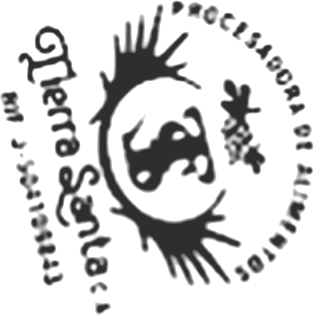
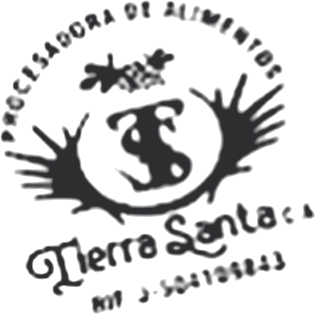
Estado de cuenta de proveedores con nuevo estilo y sello derecho
- Movimientos del período: tipo (entrega/abono) con icono y color,
  rubro, kg, cestas, precio por cesta/kg/und, merma, monto con signo y
  saldo acumulado resaltado; totales del periodo.
- En entregas importadas se muestra el precio por cesta original.
- El sello de la factura se gira para que se lea derecho.

Claude-Session: https://claude.ai/code/session_01TpQcdKiYUmVfcUq88urfjf

diff --git a/src/app/(app)/proveedores/[id]/estado-cuenta/page.tsx b/src/app/(app)/proveedores/[id]/estado-cuenta/page.tsx
@@ -2,7 +2,7 @@ import type { Metadata } from "next";
 import Image from "next/image";
 import Link from "next/link";
 import { notFound } from "next/navigation";
-import { ArrowLeft, FileSpreadsheet } from "lucide-react";
+import { ArrowLeft, ClipboardList, FileSpreadsheet } from "lucide-react";
 import { exigirPerfil } from "@/lib/auth/sesion";
 import { crearClienteServidor } from "@/lib/supabase/server";
 import { formatearCantidad, formatearMonto } from "@/lib/dinero";
@@ -21,7 +21,7 @@ export default async function PaginaEstadoCuenta({ params, searchParams }: PageP
   const sp = await searchParams;
   const datos = await obtenerEstadoCuenta(id, t(sp.moneda) || null, t(sp.desde), t(sp.hasta));
   if (!datos) notFound();
-  const { proveedor, empresa, moneda, desde, hasta, filas, totales } = datos;
+  const { proveedor, empresa, moneda, desde, hasta, filas, detalles, totales } = datos;
   const supabase = await crearClienteServidor();
   const { data: monedas } = await supabase.from("monedas").select("codigo").eq("activa", true).order("orden");
   const logo = empresa?.logo_path ? urlLogo(empresa.logo_path) : LOGO_POR_DEFECTO_NEGRO;
@@ -69,38 +69,74 @@ export default async function PaginaEstadoCuenta({ params, searchParams }: PageP
           {proveedor.ubicacion && <p><span className="text-neutral-500">Ubicación:</span> {proveedor.ubicacion}</p>}
         </section>
 
+        <h2 className="mt-5 flex items-center gap-2 border-b-2 border-amber-500 pb-1.5 text-sm font-extrabold uppercase tracking-wide">
+          <ClipboardList className="size-4 text-amber-600" aria-hidden /> Movimientos del período
+        </h2>
         <div className="overflow-x-auto">
-          <table className="mt-3 w-full border-collapse">
+          <table className="w-full min-w-[46rem] border-collapse text-[12.5px]">
             <thead>
-              <tr className="border-b-2 border-neutral-800 text-left text-[11px] uppercase tracking-wide text-neutral-600">
-                <th className="py-1.5 pr-2">Fecha</th><th className="py-1.5 pr-2">Detalle</th>
-                <th className="py-1.5 pr-2 text-right">Kg</th><th className="py-1.5 pr-2 text-right">Merma</th>
-                <th className="py-1.5 pr-2 text-right">Entregas</th><th className="py-1.5 pr-2 text-right">Abonos</th><th className="py-1.5 text-right">Saldo</th>
+              <tr className="border-b border-neutral-200 text-left text-[11px] font-bold uppercase tracking-wide text-neutral-800">
+                <th className="py-2 pr-2">Fecha</th><th className="py-2 pr-2">Tipo</th><th className="py-2 pr-2">Rubro</th>
+                <th className="py-2 pr-2 text-right">Kg</th><th className="py-2 pr-2 text-right">Cestas</th><th className="py-2 pr-2 text-right">Precio</th>
+                <th className="py-2 pr-2 text-center">Merma</th><th className="py-2 pr-2 text-right">Monto</th><th className="py-2 text-right">Saldo acumulado</th>
               </tr>
             </thead>
             <tbody>
               {filas.length === 0 && (
-                <tr><td colSpan={7} className="py-6 text-center text-neutral-500">Sin movimientos en este periodo.</td></tr>
+                <tr><td colSpan={9} className="py-6 text-center text-neutral-500">Sin movimientos en este periodo.</td></tr>
               )}
-              {filas.map((f, i) => (
-                <tr key={`${f.tipo}-${f.ref_id ?? i}`} className={f.tipo === "saldo_anterior" ? "bg-neutral-100 font-medium" : i % 2 ? "bg-neutral-50" : ""}>
-                  <td className="whitespace-nowrap py-1 pr-2">{formatearFecha(f.fecha)}</td>
-                  <td className="py-1 pr-2">{f.detalle}</td>
-                  <td className="tabular py-1 pr-2 text-right">{f.kg ? formatearCantidad(f.kg) : ""}</td>
-                  <td className="tabular py-1 pr-2 text-right">{f.merma ? formatearCantidad(f.merma) : ""}</td>
-                  <td className="tabular whitespace-nowrap py-1 pr-2 text-right">{Number(f.cargo) ? formatearMonto(f.cargo, moneda, { sinCodigo: true }) : ""}</td>
-                  <td className="tabular whitespace-nowrap py-1 pr-2 text-right">{Number(f.abono) ? formatearMonto(f.abono, moneda, { sinCodigo: true }) : ""}</td>
-                  <td className="tabular whitespace-nowrap py-1 text-right font-medium">{formatearMonto(f.saldo, moneda, { sinCodigo: true })}</td>
-                </tr>
-              ))}
+              {filas.map((f, i) => {
+                const clave = `${f.tipo}-${f.ref_id ?? i}`;
+                const saldo = <td className="tabular whitespace-nowrap py-2 text-right font-bold text-amber-600">{formatearMonto(f.saldo, moneda)}</td>;
+                if (f.tipo === "saldo_anterior") {
+                  return (
+                    <tr key={clave} className="border-b border-neutral-100 bg-neutral-50">
+                      <td className="whitespace-nowrap py-2 pr-2">{formatearFecha(f.fecha)}</td>
+                      <td colSpan={7} className="py-2 pr-2 font-semibold text-neutral-700">Saldo anterior</td>{saldo}
+                    </tr>
+                  );
+                }
+                if (f.tipo === "abono") {
+                  const extra = f.detalle.replace(/^Abono( · )?/, "");
+                  return (
+                    <tr key={clave} className="border-b border-neutral-100">
+                      <td className="whitespace-nowrap py-2 pr-2">{formatearFecha(f.fecha)}</td>
+                      <td className="whitespace-nowrap py-2 pr-2 font-semibold text-green-700"><span aria-hidden>💵</span> Abono</td>
+                      <td colSpan={5} className="py-2 pr-2 italic text-neutral-600">Pago recibido{extra ? ` · ${extra}` : ""}</td>
+                      <td className="tabular whitespace-nowrap py-2 pr-2 text-right font-bold text-green-700">−{formatearMonto(f.abono, moneda)}</td>{saldo}
+                    </tr>
+                  );
+                }
+                const d = f.ref_id ? detalles.get(f.ref_id) : undefined;
+                return (
+                  <tr key={clave} className="border-b border-neutral-100">
+                    <td className="whitespace-nowrap py-2 pr-2">{formatearFecha(f.fecha)}</td>
+                    <td className="whitespace-nowrap py-2 pr-2 font-semibold text-red-600"><span aria-hidden>🚚</span> Entrega</td>
+                    <td className="py-2 pr-2 uppercase">{d?.rubro ?? f.detalle}</td>
+                    <td className="tabular whitespace-nowrap py-2 pr-2 text-right">
+                      {d?.modo === "UNIDAD" ? `${formatearCantidad(d.unidades)} und` : f.kg ? `${formatearCantidad(f.kg, 1)} kg` : "—"}
+                    </td>
+                    <td className="tabular py-2 pr-2 text-right">{Number(f.cestas) ? formatearCantidad(f.cestas, 2) : "—"}</td>
+                    <td className="tabular whitespace-nowrap py-2 pr-2 text-right">
+                      {d ? <>{formatearMonto(d.precio, moneda)}<span className="text-[10px] text-neutral-500">/{d.por}</span></> : "—"}
+                    </td>
+                    <td className="tabular whitespace-nowrap py-2 pr-2 text-center text-amber-600">{Number(f.merma) ? `${formatearCantidad(f.merma)} kg` : "—"}</td>
+                    <td className="tabular whitespace-nowrap py-2 pr-2 text-right font-bold text-red-600">+{formatearMonto(f.cargo, moneda)}</td>{saldo}
+                  </tr>
+                );
+              })}
             </tbody>
             <tfoot>
               <tr className="border-t-2 border-neutral-800 font-semibold">
-                <td colSpan={2} className="py-1.5">Totales del periodo</td>
-                <td className="tabular py-1.5 pr-2 text-right">{formatearCantidad(totales.kg)}</td>
-                <td className="tabular py-1.5 pr-2 text-right">{formatearCantidad(totales.merma)}</td>
-                <td className="tabular whitespace-nowrap py-1.5 pr-2 text-right">{formatearMonto(totales.cargos, moneda, { sinCodigo: true })}</td>
-                <td className="tabular whitespace-nowrap py-1.5 pr-2 text-right">{formatearMonto(totales.abonos, moneda, { sinCodigo: true })}</td>
+                <td colSpan={3} className="py-2">Totales del periodo</td>
+                <td className="tabular whitespace-nowrap py-2 pr-2 text-right">{formatearCantidad(totales.kg, 1)} kg</td>
+                <td className="tabular py-2 pr-2 text-right">{formatearCantidad(totales.cestas, 2)}</td>
+                <td />
+                <td className="tabular whitespace-nowrap py-2 pr-2 text-center">{totales.merma ? `${formatearCantidad(totales.merma)} kg` : "—"}</td>
+                <td className="tabular whitespace-nowrap py-2 pr-2 text-right">
+                  <span className="block text-red-600">+{formatearMonto(totales.cargos, moneda)}</span>
+                  <span className="block text-green-700">−{formatearMonto(totales.abonos, moneda)}</span>
+                </td>
                 <td />
               </tr>
             </tfoot>

diff --git a/src/features/proveedores/estado-cuenta.ts b/src/features/proveedores/estado-cuenta.ts
@@ -1,12 +1,26 @@
 import "server-only";
 import { crearClienteServidor } from "@/lib/supabase/server";
+import { parsearMonto } from "@/lib/dinero";
 
 export type FilaEstadoCuenta = {
   fecha: string | null; tipo: string; ref_id: number | null; detalle: string;
   cestas: number | null; kg: number | null; merma: number | null; cargo: number | null; abono: number | null; saldo: number;
 };
 
+/** Datos de cada entrega para la tabla: rubro, cantidad y precio según cómo se compró. */
+export type DetalleEntrega = {
+  rubro: string; emoji: string | null; modo: string; unidades: number;
+  /** Precio unitario y a qué se refiere ("cesta", "kg" o "und"). */
+  precio: number; por: "cesta" | "kg" | "und";
+};
+
 const valida = (v: string | null | undefined) => (v && /^\d{4}-\d{2}-\d{2}$/.test(v) ? v : null);
+
+/** Precio por cesta original de una entrega importada (la nota dice "2,18 cestas de 15 kg × 45.000"). */
+function precioCestaImportada(nota: string | null) {
+  const m = nota?.match(/cestas de [\d.,]+ kg × ([\d.,]+)/);
+  return m ? parsearMonto(m[1])?.toNumber() ?? null : null;
+}
 
 /** Datos del estado de cuenta (cálculo en Postgres: estado_cuenta_proveedor). */
 export async function obtenerEstadoCuenta(proveedorId: number, moneda: string | null, desde?: string | null, hasta?: string | null) {
@@ -22,14 +36,31 @@ export async function obtenerEstadoCuenta(proveedorId: number, moneda: string | 
   });
   if (error) throw new Error(error.message);
   const lista = (filas ?? []) as FilaEstadoCuenta[];
+  const ids = lista.filter((f) => f.tipo === "entrega" && f.ref_id).map((f) => f.ref_id!);
+  const { data: entregas } = ids.length
+    ? await supabase.from("entregas_proveedor")
+        .select("id, modo_pesaje, precio, precio_kg, cestas, unidades, kg_por_cesta, nota, productos(nombre, emoji)").in("id", ids)
+    : { data: [] };
+  const detalles = new Map<number, DetalleEntrega>();
+  for (const e of entregas ?? []) {
+    const cestas = Number(e.cestas), precio = Number(e.precio);
+    // Por cesta: precio por cesta. Importadas (precio total): total ÷ cestas si las hay, si no por kilo.
+    const d: Pick<DetalleEntrega, "precio" | "por"> =
+      e.modo_pesaje === "FIJO" ? { precio, por: "cesta" }
+      : e.modo_pesaje === "UNIDAD" ? { precio, por: "und" }
+      : e.modo_pesaje === "VARIABLE" && cestas > 0 ? { precio: precioCestaImportada(e.nota) ?? precio / cestas, por: "cesta" }
+      : { precio: Number(e.precio_kg), por: "kg" };
+    detalles.set(e.id, { rubro: e.productos?.nombre ?? "", emoji: e.productos?.emoji ?? null, modo: e.modo_pesaje, unidades: Number(e.unidades), ...d });
+  }
   const movimientos = lista.filter((f) => f.tipo !== "saldo_anterior");
   return {
-    proveedor, empresa, moneda: mon, desde: valida(desde), hasta: valida(hasta), filas: lista,
+    proveedor, empresa, moneda: mon, desde: valida(desde), hasta: valida(hasta), filas: lista, detalles,
     totales: {
       cargos: movimientos.reduce((a, f) => a + Number(f.cargo ?? 0), 0),
       abonos: movimientos.reduce((a, f) => a + Number(f.abono ?? 0), 0),
       kg: movimientos.reduce((a, f) => a + Number(f.kg ?? 0), 0),
       merma: movimientos.reduce((a, f) => a + Number(f.merma ?? 0), 0),
+      cestas: movimientos.reduce((a, f) => a + Number(f.cestas ?? 0), 0),
       saldoFinal: lista.length ? Number(lista[lista.length - 1].saldo) : 0,
     },
   };

diff --git a/tests/e2e/fase3-proveedores.spec.ts b/tests/e2e/fase3-proveedores.spec.ts
@@ -80,8 +80,12 @@ test("proveedor: compras por kilo, por unidad y por cesta, abonos, cestas, saldo
   // Estado de cuenta COP
   await page.getByRole("link", { name: /Estado de cuenta COP/ }).click();
   await expect(page.getByText("ESTADO DE CUENTA", { exact: true })).toBeVisible();
-  await expect(page.getByText(/Guanábana · 400 kg × 3000 · merma 10 kg/)).toBeVisible();
-  await expect(page.getByText(/Piña · 80 und × 2500 · merma 2 und/)).toBeVisible();
+  await expect(page.getByText("Movimientos del período")).toBeVisible();
+  const guanabana = page.getByRole("row", { name: /GUANÁBANA|Guanábana/ }).first();
+  await expect(guanabana).toContainText("400 kg");
+  await expect(guanabana).toContainText("3.000/kg");
+  await expect(guanabana).toContainText("10 kg");
+  await expect(page.getByRole("row", { name: /Piña/i }).first()).toContainText("80 und");
   await expect(page.locator("article")).toContainText("COP $ 1.000.000");
   const excel = await page.request.get(page.url().replace("/estado-cuenta?", "/estado-cuenta/excel?"));
   expect(excel.status()).toBe(200);

diff --git a/src/features/facturacion/pdf-factura.tsx b/src/features/facturacion/pdf-factura.tsx
@@ -56,7 +56,7 @@ const s = StyleSheet.create({
   totales: { width: 190 },
   lineaTotal: { flexDirection: "row", justifyContent: "space-between", paddingVertical: 1.5 },
   granTotal: { flexDirection: "row", justifyContent: "space-between", borderTopWidth: 1.5, borderTopColor: "#262626", marginTop: 3, paddingTop: 4, fontSize: 11, fontFamily: "Helvetica-Bold" },
-  sello: { width: 96, height: 96, objectFit: "contain", marginTop: 18, alignSelf: "flex-end", marginRight: 24, transform: "rotate(-6deg)" },
+  sello: { width: 80, height: 80, objectFit: "contain", marginTop: 18, alignSelf: "flex-end", marginRight: 24 },
   anulada: { position: "absolute", top: 300, left: 90, fontSize: 80, color: "#dc2626", opacity: 0.35, transform: "rotate(-20deg)", fontFamily: "Helvetica-Bold", borderWidth: 6, borderColor: "#dc2626", paddingHorizontal: 16 },
   numeroPagina: { position: "absolute", bottom: 24, left: 40, right: 40, textAlign: "center", fontSize: 7.5, color: "#737373" },
 });

diff --git a/src/features/facturacion/hoja-factura.tsx b/src/features/facturacion/hoja-factura.tsx
@@ -104,7 +104,7 @@ export function HojaFactura({ factura: f, empresa }: { factura: FacturaCompleta;
         {/* Sello de la empresa (en lugar de las firmas) */}
         <div className="mt-6 flex justify-end pr-6">
           {/* eslint-disable-next-line @next/next/no-img-element -- imagen fija; también sale al imprimir */}
-          <img src="/sello-tierra-santa.png" alt="Sello de Procesadora de Alimentos Tierra Santa" className="size-28 -rotate-6 object-contain" />
+          <img src="/sello-tierra-santa.png" alt="Sello de Procesadora de Alimentos Tierra Santa" className="h-24 w-auto object-contain" />
         </div>
         {empresa.pie_factura && <p className="mt-6 text-center text-xs text-neutral-600">{empresa.pie_factura}</p>}
         {empresa.texto_legal && <p className="mt-2 text-center text-[10px] text-neutral-500">{empresa.texto_legal}</p>}

diff --git a/HANDOFF.md b/HANDOFF.md
@@ -186,7 +186,7 @@ Notas: no correr `pkill -f "next start"` (mata la propia shell). Las pruebas E2E
 
 | Fecha | Qué se hizo |
 |---|---|
-| 2026-10-19 | Samer empieza a facturar sin inventario general: las facturas no descuentan hasta que en Inventario pulse "Empezar a descontar al facturar" (tras el conteo con Ajuste). Pendiente: estilo de reportes de proveedores (esperando su PDF) y sello en la factura en vez de firmas. |
+| 2026-10-19 | Samer empieza a facturar sin inventario general: las facturas no descuentan hasta que en Inventario pulse "Empezar a descontar al facturar" (tras el conteo con Ajuste). Sello de la empresa en la factura (public/sello-tierra-santa.png, derecho) en lugar de firmas. Estado de cuenta de proveedores con el estilo de su referencia ("Movimientos del período": tipo con icono, rubro, kg, cestas, precio por cesta/kg/und, merma, monto ± y saldo acumulado en naranja). |
 | 2026-10-16 (cont. 4) | Reporte "Fruta recibida" (kg, merma, kg netos, % y cestas por fruta; filtro por proveedor; migración 20261027). Tarjeta de compras/cobrado del dashboard en filas por moneda. Próximo: ERP Clientes leyendo cada imagen de postimages para replicar las líneas de las facturas (Samer lo pidió; probar primero con ~10). |
 | 2026-10-16 (cont. 3) | Migración de proveedores USD (fusiona con COP por nombre). |
 | 2026-10-16 (cont. 2) | Ficha de proveedor: Precio por kilo + Cestas solo cuando aplica; piña por unidad (utilidad `corregir_pina_por_unidad.sql`); entrega sin nota ni foto; compra por cesta en cestas o kilos (migración 20261026). Samer ya importó los proveedores COP en producción (19–25 aplicadas, confirmar). |
